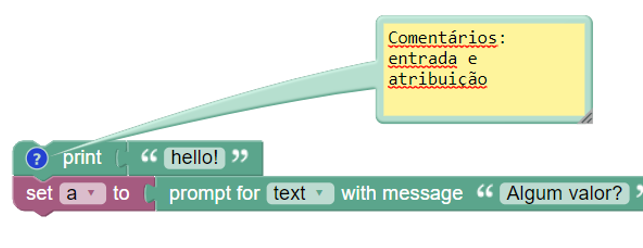
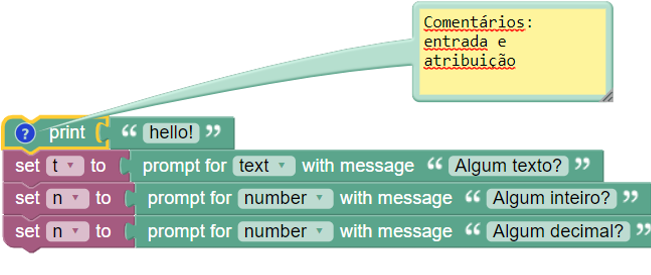
Atualizando imagens das funções de texto e input

diff --git a/slides/aula 3/index.html b/slides/aula 3/index.html
@@ -416,7 +416,12 @@
                 <code class="python" data-trim data-noescape>
                   #Comentários: entrada e atribuição
                   print ("hello!")
-                  a = input("algum valor?")
+                  #recebe um texto
+                  t = input("algum texto?")
+                  #recebe um numero inteiro
+                  n = int( input("algum inteiro?") )
+                  #recebe um numero decimal
+                  n = float( input("algum decimal?") )
                 </code>
               </pre>
             </div>
@@ -505,6 +510,8 @@
                 <code class="python" data-trim data-noescape>
                   t = str(2) #transforma número em texto
                   t = "t" + "u" #concatena textos
+                  n = int("10") #transforma texto em inteiro
+                  n = float("10.5") #transforma texto em decimal
                 </code>
               </pre>
             </div>
